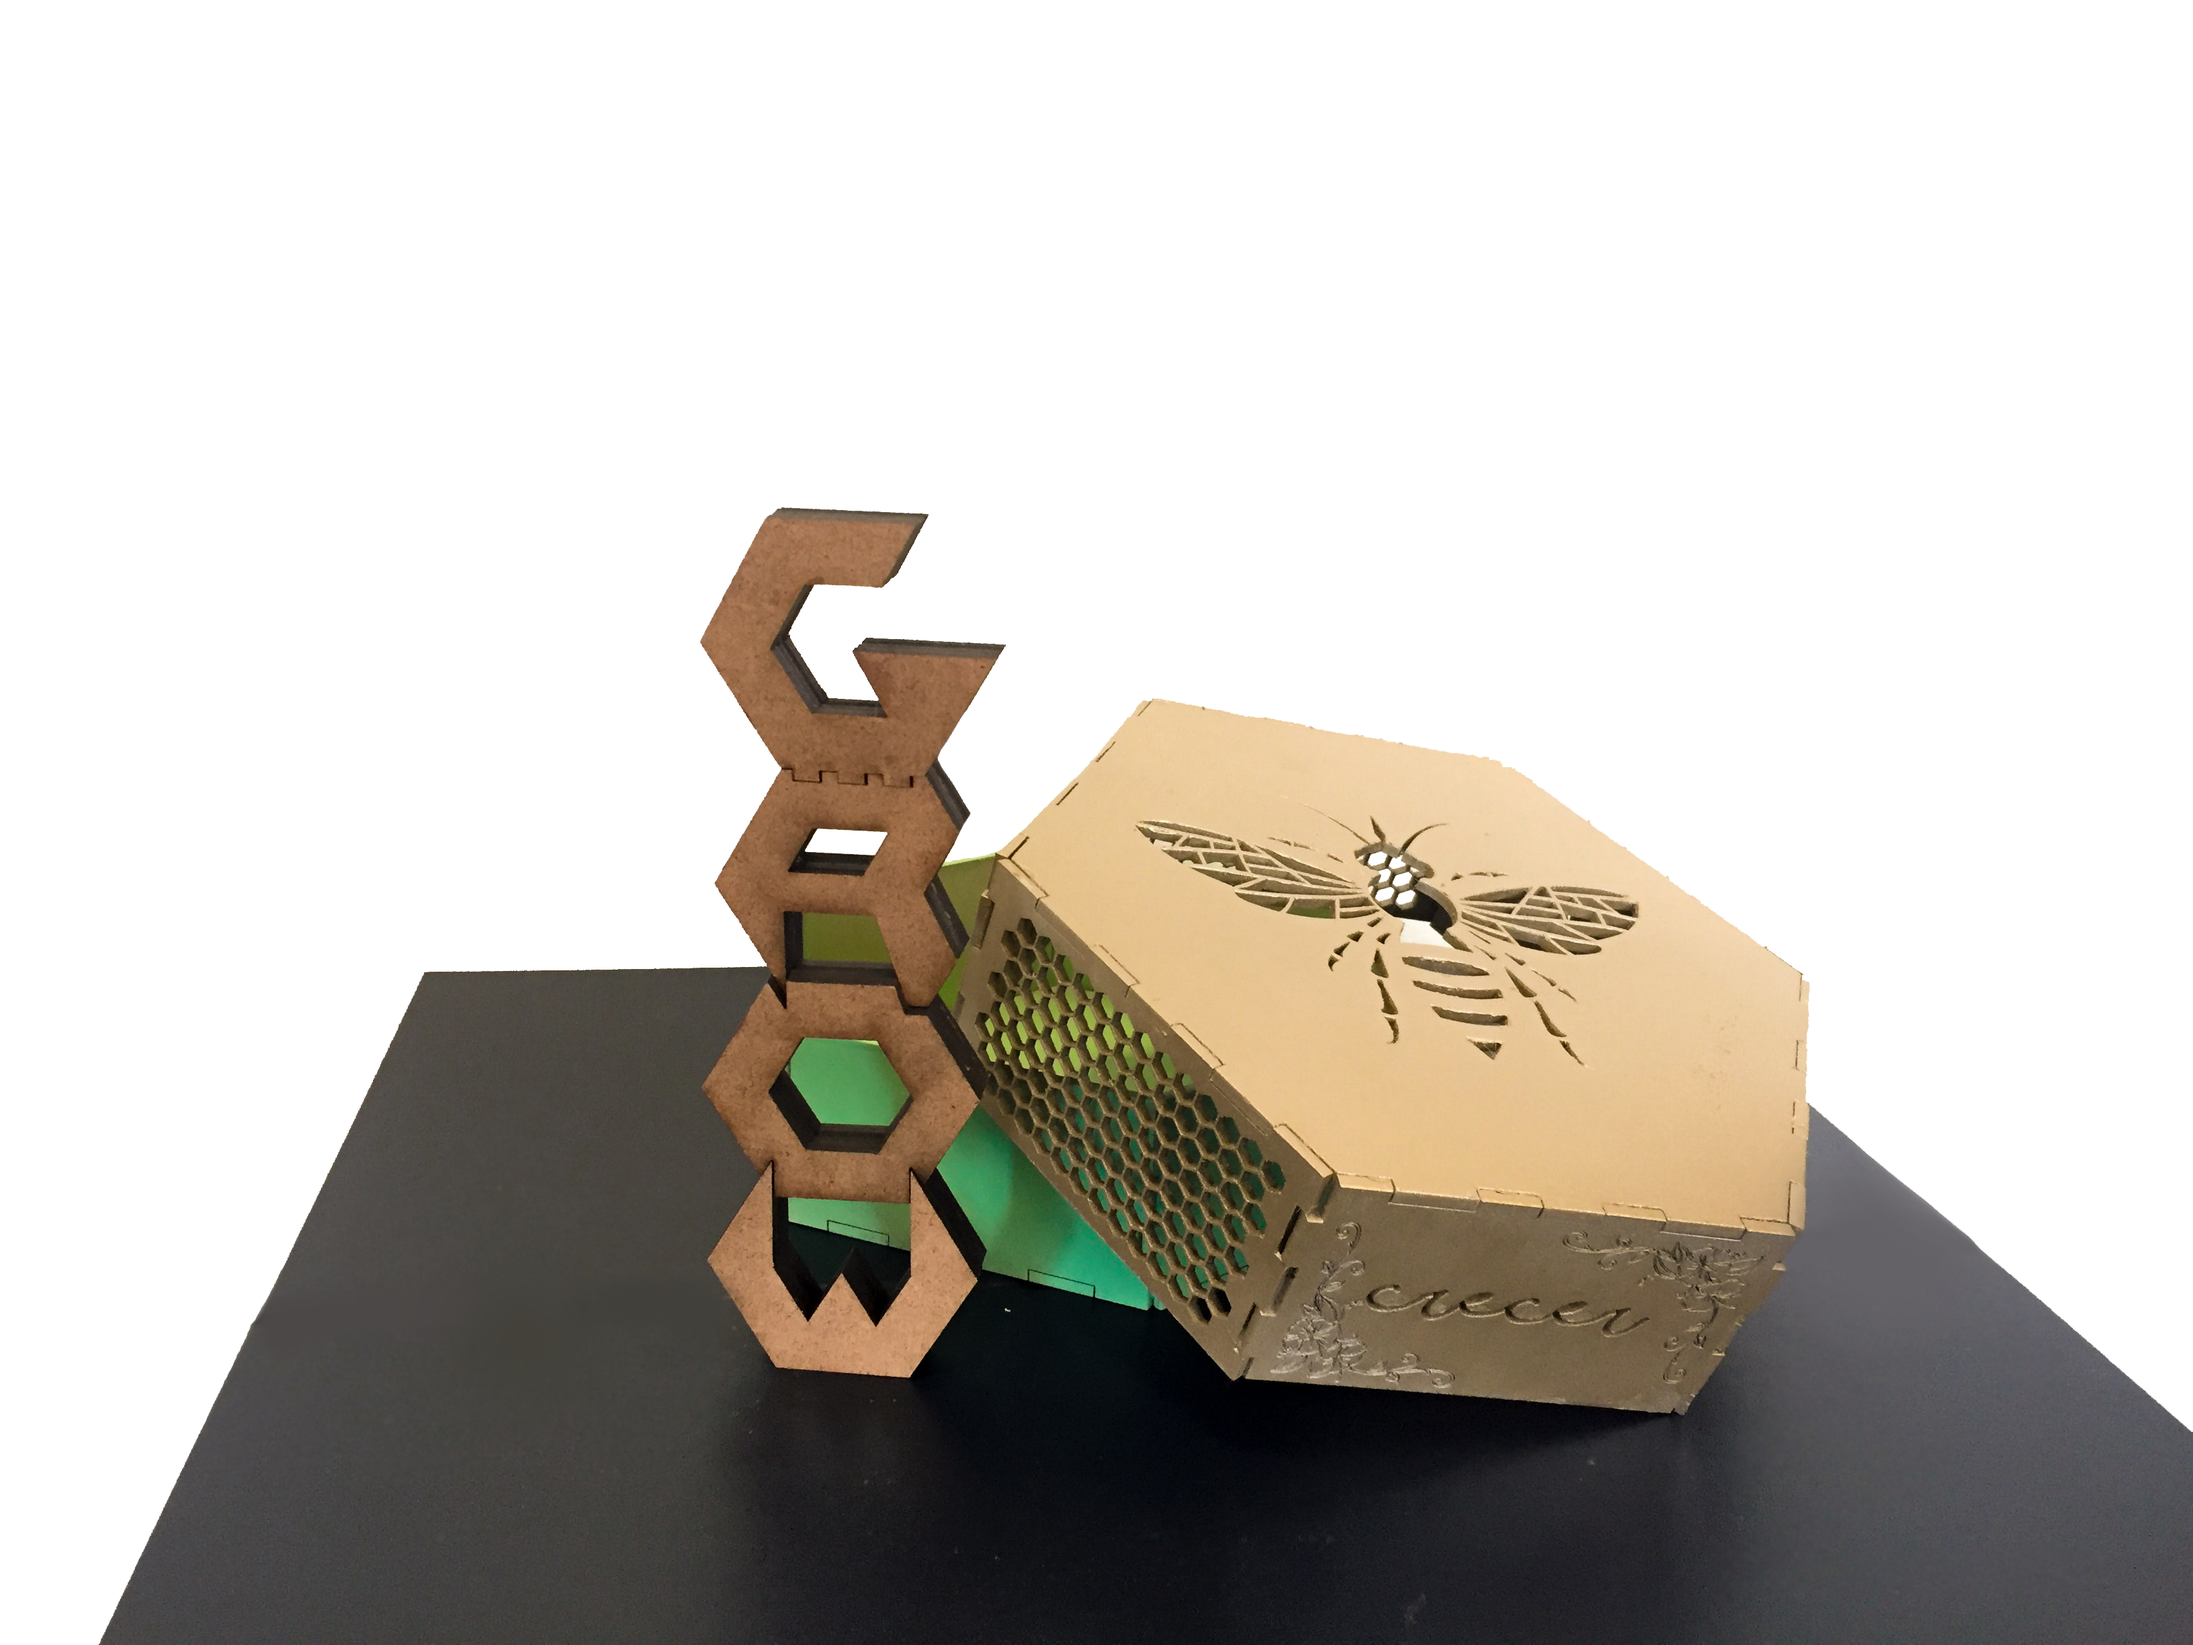
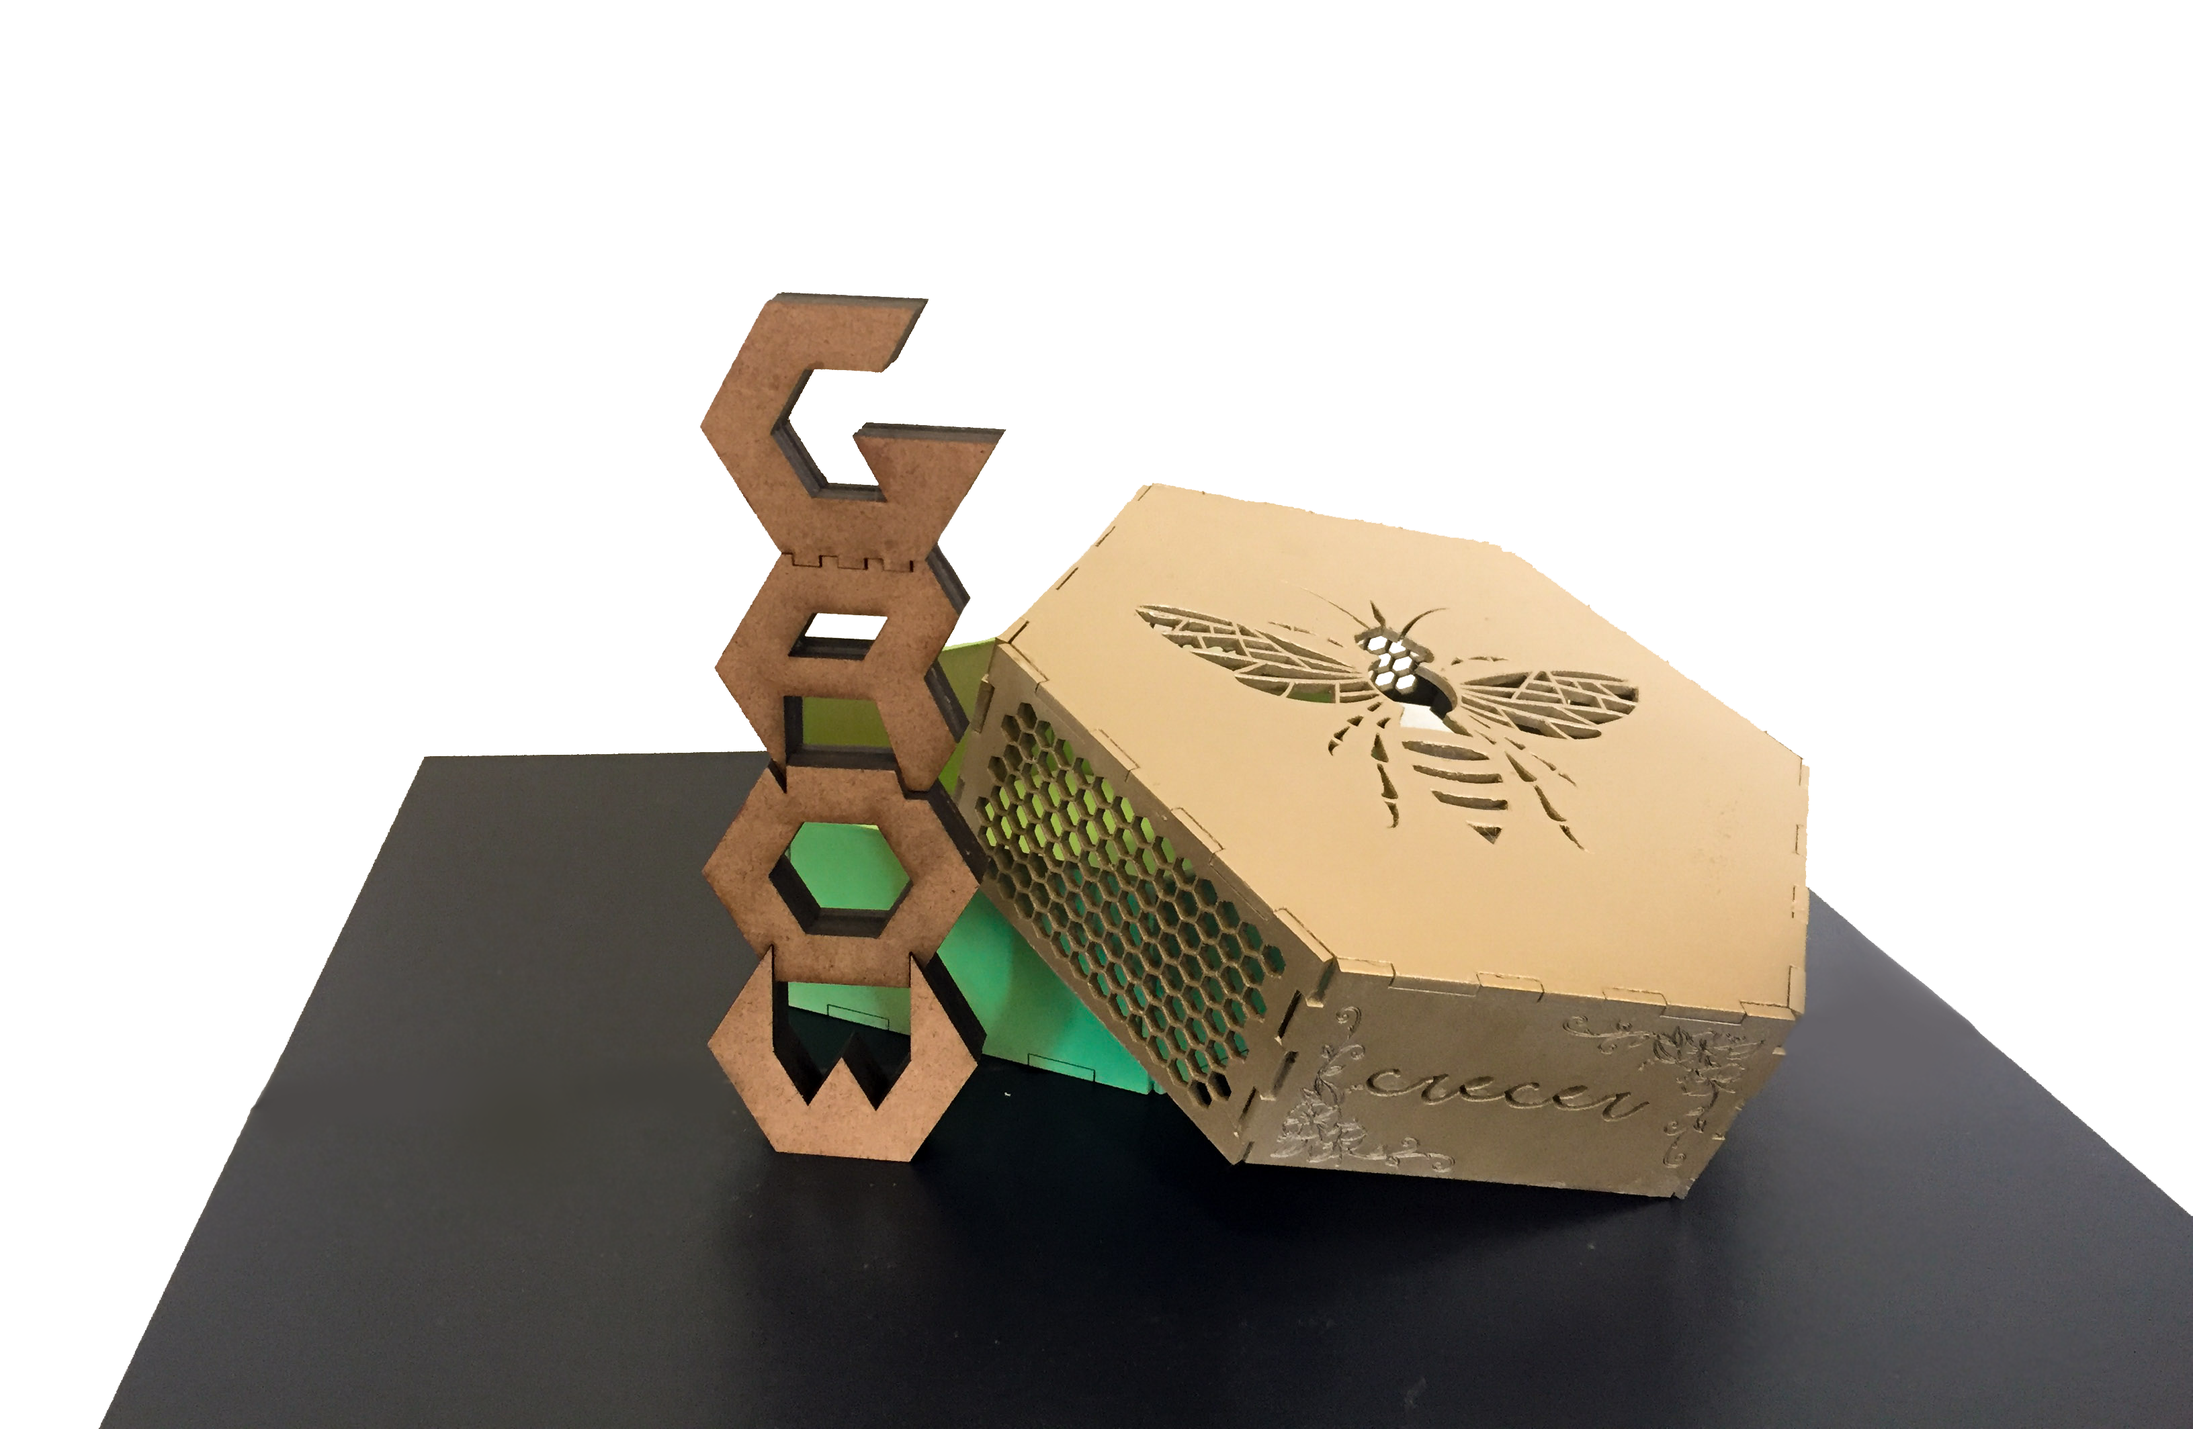
Adding in hex box

Changed region(s): [[0.0625, 0.1861, 1.0, 0.9305]]

diff --git a/Projects/GSKManufacturing/gskmanu.html b/Projects/GSKManufacturing/gskmanu.html
@@ -73,7 +73,7 @@
 
                 <div class="col-md-9">
                 <br>
-                <p> Part of a greater collaboration with GSK, my lab is working on two decision support systems. The first revolves around manufacturing and drug discovery, the second around smarter lab planning to increase synergy between scientists. Most of my work was on the <a href = "../GSKPlaces/places.html">previous project </a>, but I acted as a research asssitant on the manufacturing project too.</p>
+                <p> Part of a greater collaboration with GSK, my lab is working on two decision support systems. The first revolves around manufacturing and drug discovery, the second around smarter lab planning to increase synergy between scientists. Most of my work was on the <a href = "../GSKPlaces/places.html">previous project </a>, but I acted as a research assistant on the manufacturing project too.</p>
                 <p>For manufacturing I helped to manage work and development sessions. I also helped deploy the table in London and added mouse interaction to the software. I assisted in configuring the computer vision and game mechanics for the table to run, built modular graph objects, and reorganized and polished the UI. A majority of this was done in a one week deployment in England with my supervisor.</p>
                     <img src="IMG_7174.jpg" width = "100%">
                     <p></p>

diff --git a/Projects/HexBox/hex.html b/Projects/HexBox/hex.html
@@ -69,10 +69,17 @@
             <div class="col-md-9">
             <br>
             <p>This was an assignment for my Design Computing class at MIT. We were tasked with designing a box and 3D letters to fit inside it and vertically interlock together.</p>
-            <p>I chose the theme of growth for my box. </p>
             <img src ="boxfinal.png" width = "90%"></img>
-            <img src ="boxletters.png" width = "90%"></img>
-        <img src="text3.jpg" width = "100%">
+            <br></br>
+            <br></br>
+            <img src ="boxandletters.jpg" width = "90%"></img>
+            <br></br>
+            <p>I chose the theme of growth for my box. The sides have alternating honeycomb and word sides. The words is growth in Arabic, Spanish, and English. I chose these languages because they're related and some of their words grew from each other.</p>
+            <br></br>
+            <img src ="ALL.png" width = "90%"></img>
+            <br></br>
+            <p>The letters interlock vertically to follow with the theme of growth. They fit snuggly in the box in multiple permutations, as they are all based off the same hexagonal base shape.</p>
+
             </div>
 
         </div>
